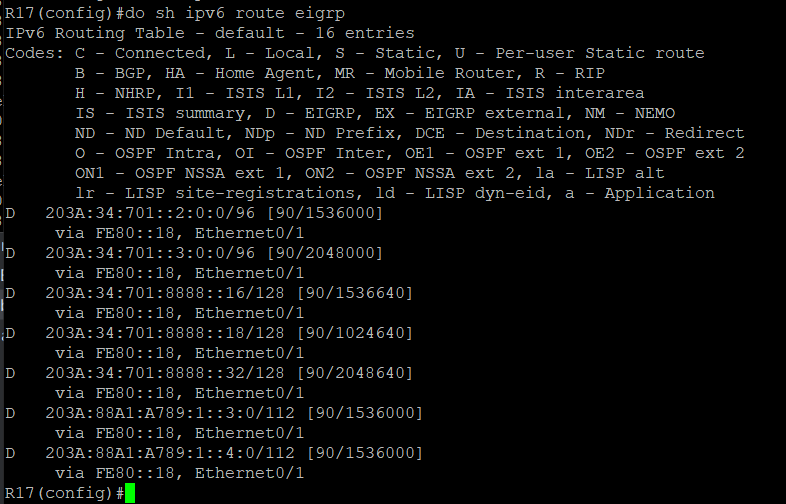
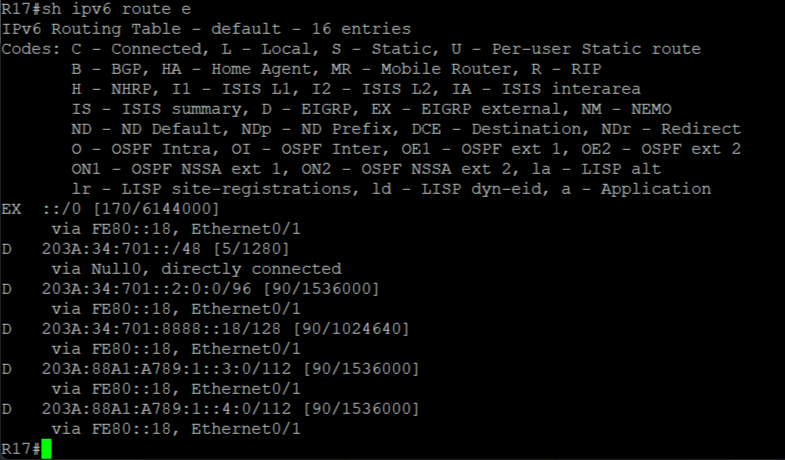
commit

Changed region(s): [[0.0, 0.0, 0.9478, 1.0]]

diff --git a/labs/lab08/readme.md b/labs/lab08/readme.md
@@ -1,8 +1,8 @@
 ## Практическое задание №8
 
-1. Настроить EIGRP в офисе С.-Петербург.
-2. Настроить R32 для получения только маршрута по умолчанию.
-3. Настроить R16-17 для анонсирования только суммарных префиксов.
+1. [Настроить EIGRP в офисе С.-Петербург.]()
+2. [Настроить R32 для получения только маршрута по умолчанию.]()
+3. [Настроить R16-17 для анонсирования только суммарных префиксов.]()
 
 Использовать EIGRP named-mode для настройки сети.
 Настройка осуществляется одновременно для IPv4 и IPv6.
@@ -54,7 +54,7 @@
 |             | VPC8     | NIC       |             | DHCP           | DHCP            | DHCP       | SLAAC                     |              |
 |             | VPC      | NIC       |             | DHCP           | DHCP            | DHCP       | SLAAC                     |              |
 
-1. Настроим EIGRP в офисе С.-Петербург.
+### 1. Настроим EIGRP в офисе С.-Петербург.
 
 Здесь для всех роутеров в качестве router-ID процесса EIGRP назначены вручную 32 битные идентификаторы совпадающие с IPv4 адресами интерфейсов Loopback0.
 На портах участвующих в формировании соседских отнощений процесса EIGRP между роутерами домена настроим аутентификацию. 
@@ -193,10 +193,8 @@ R17#
 На роутере R18 настроим маршруты по умолчанию
 
 ````
-R18(config)#ip route 0.0.0.0 0.0.0.0 113.201.100.9
-R18(config)#ip route 0.0.0.0 0.0.0.0 113.201.100.11
-R18(config)#ipv6 route ::/0 203a:88a1:a789:1::3:2
-R18(config)#ipv6 route ::/0 203a:88a1:a789:1::4:2
+R18(config)#ip route 0.0.0.0 0.0.0.0 null 0
+R18(config)#ipv6 route ::/0 Null0
 ````
 И проведем редистрибьюцию этих статических маршрутов по протоколу EIGRP командой **_redistribute static_**
 
@@ -207,13 +205,6 @@ R18(config)#ipv6 route ::/0 203a:88a1:a789:1::4:2
 и для IPv6    
 ![R17_ipv6_route_stat.png](R17_ipv6_route_stat.png)
 
-Редистрибьюция статического маршрута для IPv6 в протоколe EIGRP не произошла.
-Тогда попробуем на R18 передать суммарный марщрут по-умолчанию на интерфейсах в сторону соседей.
-
-````
-R18(config-router-af-interface)#summary-address ::/0
-````
-![R17_ipv6_route_summ.png](R17_ipv6_route_summ.png)  
 
 ### 2. Настроить сеть так, что-бы R32 получал только маршрут по умолчанию.
 
@@ -250,5 +241,5 @@ R17(config-router-af-interface)#summary-address 203A:34:701::/48
 
 ![R18_ip_rout_summ.png](R18_ip_rout_summ.png)
 
-
+Настройки конфигурации маршрутизаторов приведены [здесь]()
 
